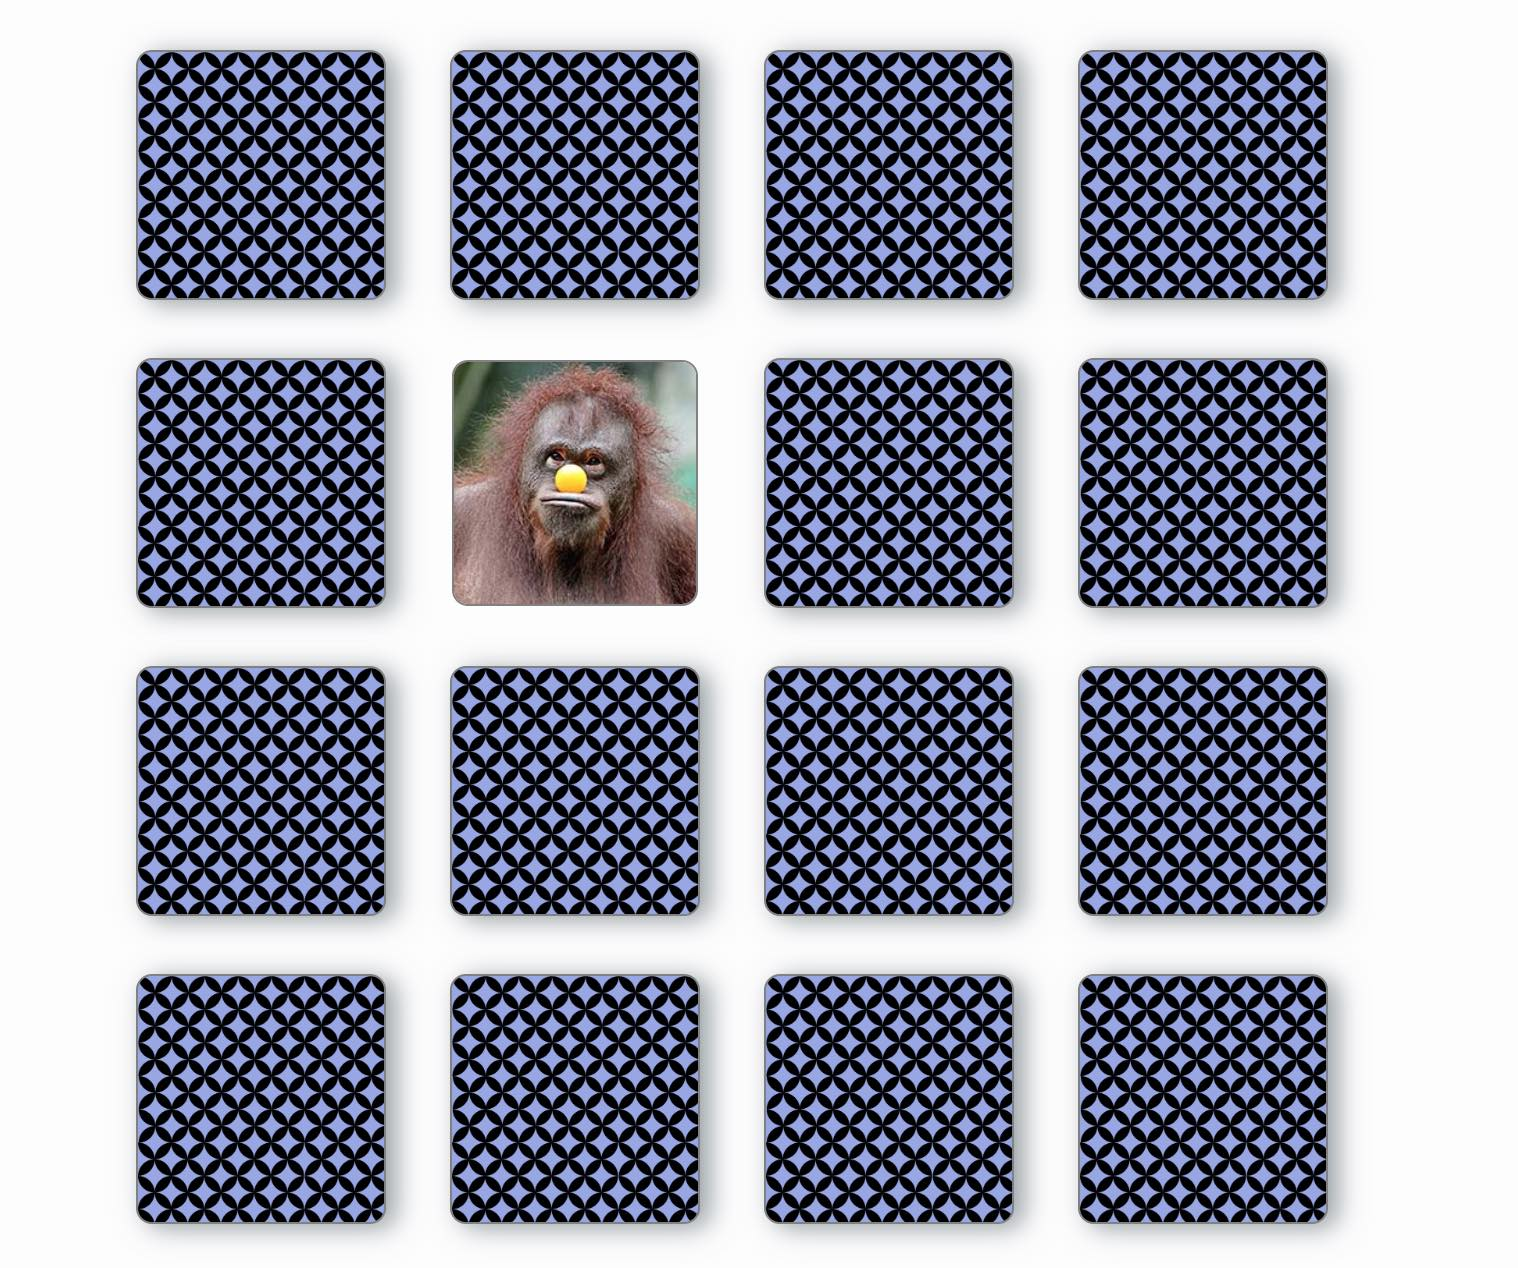
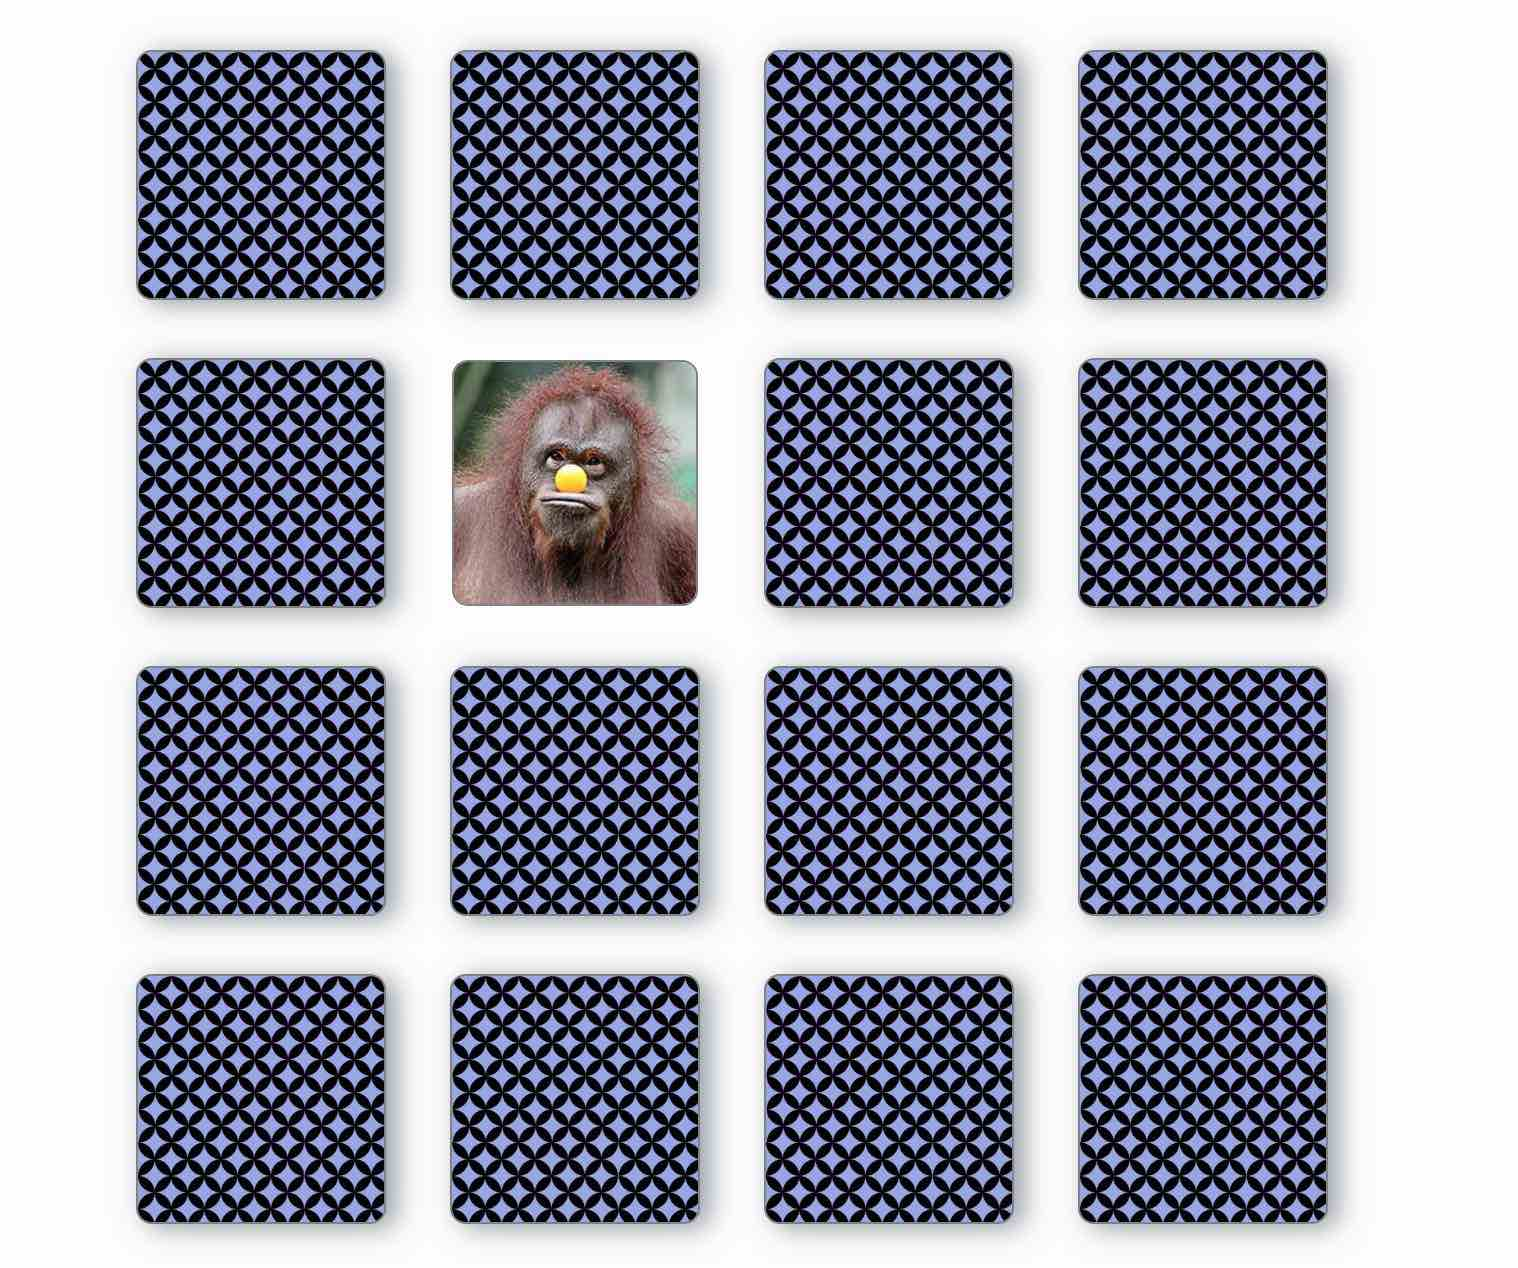
reduce image sizes

diff --git a/index.html b/index.html
@@ -52,7 +52,7 @@
 
         <figure class="content-element" id="tours">
 
-            <img src="img/photo_tours/Screenshot1.png" alt="Berlin photo_tours">
+            <img src="img/photo_tours/Screenshot1.jpg" alt="Berlin photo_tours">
             <figcaption>
               <a target="_blank" href="https://phototours.guillermogudino.com/">
                 <h3>Berlin
@@ -120,7 +120,7 @@
 
       <figure class="content-element no-margin" id="arcade">
 
-        <img src="img/arcade_game/Screenshot_arcade.png" alt="Arcade Game">
+        <img src="img/arcade_game/Screenshot_arcade.jpg" alt="Arcade Game">
         <figcaption>
           <a target="_blank" href="https://musuauer.github.io/Splash/">
             <h3>Arcade
